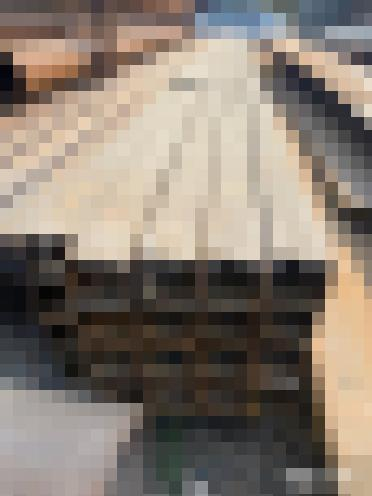
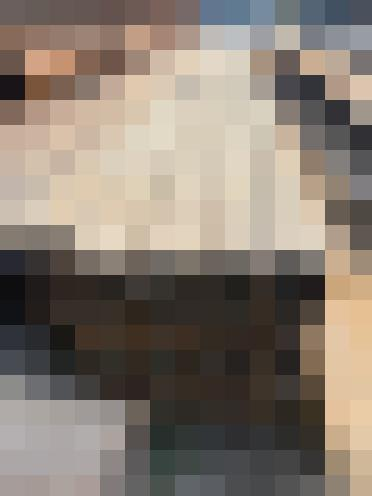
Showing mode, square size, and a line when the save finishes.

diff --git a/src/view/ImageWindow.java b/src/view/ImageWindow.java
@@ -2,7 +2,11 @@ package view;
 
 import image.RegionListener;
 
+import javax.swing.BorderFactory;
 import javax.swing.JFrame;
+import javax.swing.JLabel;
+import javax.swing.JPanel;
+import java.awt.BorderLayout;
 import java.awt.Dimension;
 import java.awt.GraphicsEnvironment;
 import java.awt.Insets;
@@ -13,14 +17,28 @@ import java.util.concurrent.atomic.AtomicReference;
 
 public class ImageWindow {
 
-    public static RegionListener show(BufferedImage image) {
+    private final ImagePanel panel;
+    private final JLabel status;
+    private final String summary;
+
+    private ImageWindow(ImagePanel panel, JLabel status, String summary) {
+        this.panel = panel;
+        this.status = status;
+        this.summary = summary;
+    }
+
+    public static ImageWindow show(BufferedImage image, String summary) {
         if (image == null) {
             throw new IllegalArgumentException("Image is missing.");
         }
 
+        if (summary == null || summary.isBlank()) {
+            throw new IllegalArgumentException("Summary is missing.");
+        }
+
         CountDownLatch painted = new CountDownLatch(1);
-        AtomicReference<ImagePanel> panel = new AtomicReference<>();
-        UiThread.run(() -> panel.set(open(image, painted)));
+        AtomicReference<ImageWindow> window = new AtomicReference<>();
+        UiThread.run(() -> window.set(open(image, summary, painted)));
 
         try {
             painted.await();
@@ -29,26 +47,41 @@ public class ImageWindow {
             throw new IllegalStateException("Could not show the image.");
         }
 
-        return panel.get();
+        return window.get();
     }
 
-    private static ImagePanel open(BufferedImage image, CountDownLatch painted) {
+    public RegionListener listener() {
+        return panel;
+    }
+
+    public void saved(String line) {
+        UiThread.run(() -> status.setText(summary + "    " + line));
+    }
+
+    private static ImageWindow open(BufferedImage image, String summary, CountDownLatch painted) {
         JFrame frame = new JFrame("PL-A4");
         frame.setDefaultCloseOperation(JFrame.DISPOSE_ON_CLOSE);
+
         ImagePanel panel = new ImagePanel(image, painted);
-        frame.setContentPane(panel);
+        JLabel status = new JLabel(summary);
+        status.setBorder(BorderFactory.createEmptyBorder(4, 8, 4, 8));
+
+        JPanel content = new JPanel(new BorderLayout());
+        content.add(panel, BorderLayout.CENTER);
+        content.add(status, BorderLayout.PAGE_END);
+        frame.setContentPane(content);
         frame.pack();
 
         Insets insets = frame.getInsets();
         Rectangle screen = GraphicsEnvironment.getLocalGraphicsEnvironment().getMaximumWindowBounds();
         int maxWidth = Math.max(1, screen.width - insets.left - insets.right);
-        int maxHeight = Math.max(1, screen.height - insets.top - insets.bottom);
+        int maxHeight = Math.max(1, screen.height - insets.top - insets.bottom - status.getHeight());
         panel.setPreferredSize(fittedSize(image.getWidth(), image.getHeight(), maxWidth, maxHeight));
 
         frame.pack();
         frame.setLocationRelativeTo(null);
         frame.setVisible(true);
-        return panel;
+        return new ImageWindow(panel, status, summary);
     }
 
     private static Dimension fittedSize(int imageWidth, int imageHeight, int maxWidth, int maxHeight) {

diff --git a/src/Main.java b/src/Main.java
@@ -1,6 +1,6 @@
 import cli.Arguments;
+import cli.Mode;
 import image.ImageLoader;
-import image.RegionListener;
 import image.ResultWriter;
 import process.SingleThreadProcessor;
 import view.ImageWindow;
@@ -14,15 +14,22 @@ public class Main {
             Arguments arguments = Arguments.parse(args);
 
             BufferedImage image = ImageLoader.load(arguments.fileName());
-            RegionListener listener = ImageWindow.show(image);
+            String summary = "Mode: " + modeLetter(arguments.mode())
+                    + "    Square size: " + arguments.squareSize();
+            ImageWindow window = ImageWindow.show(image, summary);
 
-            SingleThreadProcessor.INSTANCE.run(image, arguments.squareSize(), listener);
+            SingleThreadProcessor.INSTANCE.run(image, arguments.squareSize(), window.listener());
             ResultWriter.write(image);
+            window.saved("Saved " + ResultWriter.FILE_NAME);
 
             System.out.println("Saved " + ResultWriter.FILE_NAME);
 
         } catch (Exception exception) {
             System.err.println(exception.getMessage());
         }
+    }
+
+    private static char modeLetter(Mode mode) {
+        return mode == Mode.SINGLE ? 'S' : 'M';
     }
 }
